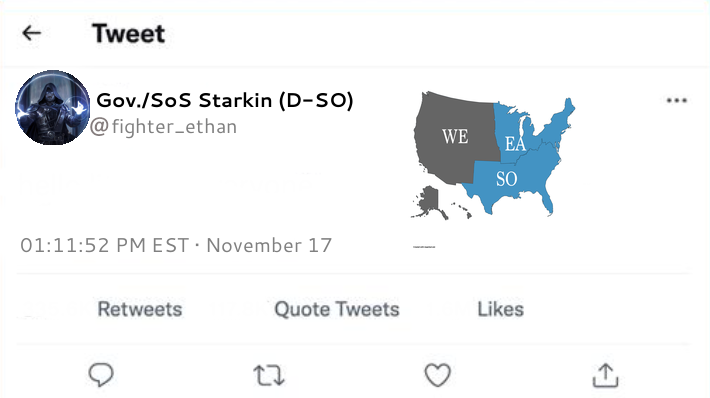
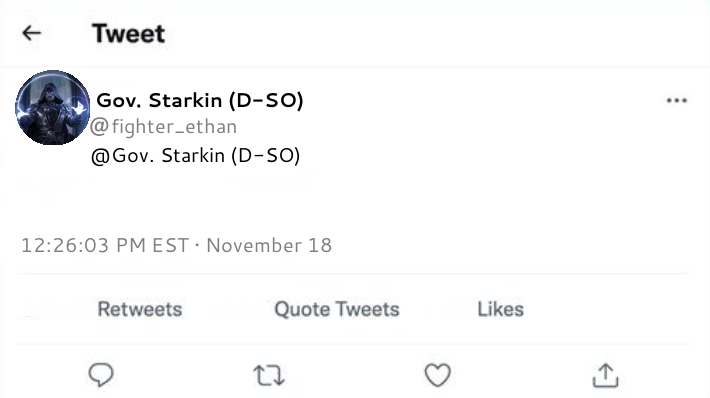
Version 3.3.2 (Hotfix #8)
- Fixed an issue where tweets showed the ID of a tagged user instead of their name. Now it shows the name of the tagged user!

diff --git a/cogs/twitter.py b/cogs/twitter.py
@@ -45,10 +45,15 @@ class twitter(commands.Cog):
           font5 = ImageFont.truetype('cogs/Cantarell-Bold.ttf', 20)
           draw = ImageDraw.Draw(img)
           message_tweet = str(message.content)
+          mentions = message.mentions
+          output = message_tweet
+          for member in mentions:
+              # Replace does not modify, it returns a new string.
+              output = output.replace(f"<@{member.id}>", f"@{member.display_name}")
           if message.attachments:
-            wrapped = textwrap.wrap(message_tweet, width=40)
+            wrapped = textwrap.wrap(output, width=40)
           else:
-            wrapped = textwrap.wrap(message_tweet, width= 60)
+            wrapped = textwrap.wrap(output, width= 60)
           wrapped_message = '\n'.join(wrapped)
           draw.text((90, 140), wrapped_message, box_width=50, fill='black',font=font2)
           draw.text((111, 111), message.author.name, fill='gray', font=font2)
